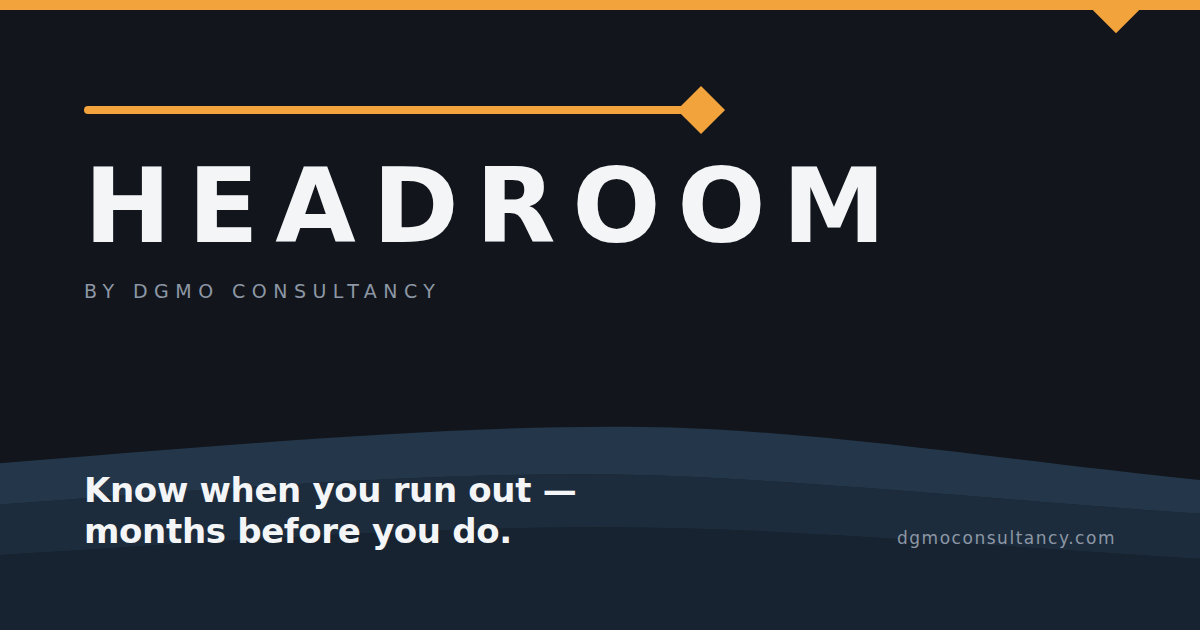
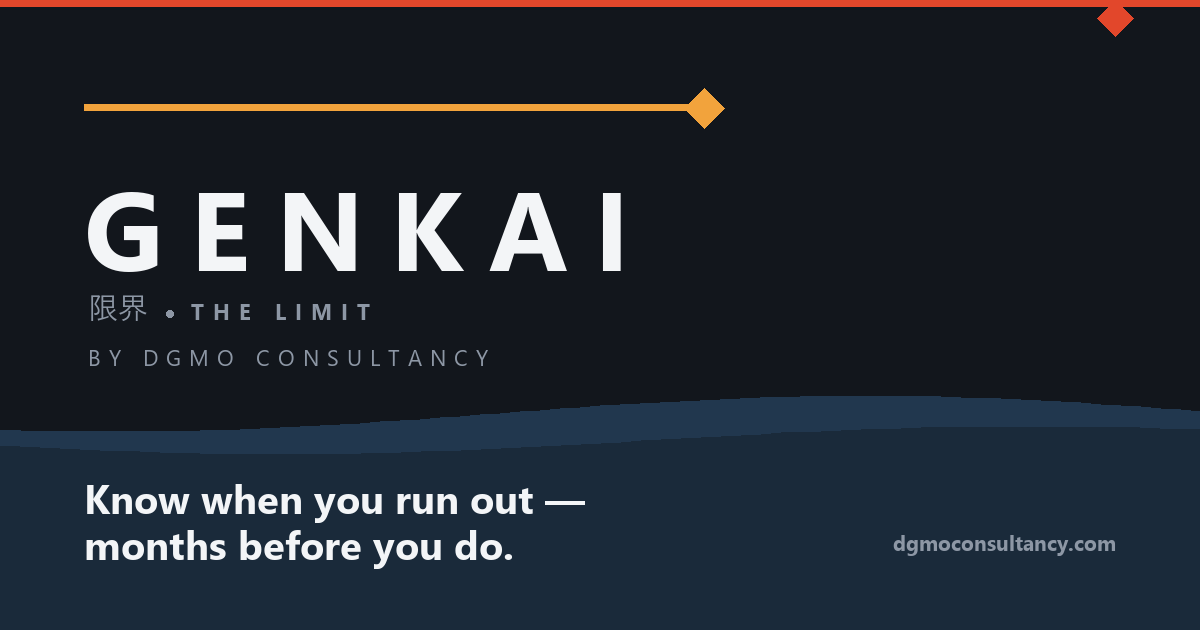
Re-cut the OG image for Genkai; keep the generator
assets/og.png read "HEADROOM". Regenerated at 1200x630 with the Genkai
lockup; scripts/make-og.py rebuilds it. Pages reference og.png?v=2 so
link previews refetch.

diff --git a/scripts/make-og.py b/scripts/make-og.py
@@ -1,0 +1,76 @@
+"""Regenerate assets/og.png (1200x630) for the Genkai brand.
+
+Run from the repo root:  python scripts/make-og.py
+Fonts are read from the Windows font folder; adjust FONT_DIR elsewhere.
+Colours match assets/styles.css. Shu vermilion is used only as the limit line.
+"""
+from PIL import Image, ImageDraw, ImageFont
+import os, sys
+
+W, H = 1200, 630
+BG, INK, MUTED, AMBER, SHU = "#12161C", "#F3F5F7", "#8D97A5", "#F2A33C", "#E2472B"
+B1, B2, B3 = "#24435F", "#33608A", "#4A82B4"
+FONT_DIR = os.environ.get("FONT_DIR", r"C:\Windows\Fonts")
+
+def font(name, size):
+    return ImageFont.truetype(os.path.join(FONT_DIR, name), size)
+
+img = Image.new("RGB", (W, H), BG)
+d = ImageDraw.Draw(img)
+
+# The ceiling: shu limit line with the diamond marker, as on every page.
+d.rectangle([0, 0, W, 6], fill=SHU)
+d.polygon([(1115, 0), (1133, 18), (1115, 36), (1097, 18)], fill=SHU)
+d.rectangle([0, 0, W, 6], fill=SHU)
+
+# Lower band: the demand curves, then the strapline over them.
+import math
+def wave(y0, amp, phase, n=60):
+    pts = []
+    for i in range(n + 1):
+        x = W * i / n
+        pts.append((x, y0 + amp * math.sin(x / W * math.pi * 1.6 + phase)))
+    return pts
+top1 = wave(440, 14, 0.4); top2 = wave(414, 18, 1.1)
+d.polygon(top1 + [(W, H), (0, H)], fill=B1)
+d.polygon(top2 + list(reversed(top1)), fill=B2)
+# tone the band down so text stays legible
+overlay = Image.new("RGBA", (W, H), (0, 0, 0, 0))
+ImageDraw.Draw(overlay).rectangle([0, 380, W, H], fill=(18, 22, 28, 140))
+img = Image.alpha_composite(img.convert("RGBA"), overlay).convert("RGB")
+d = ImageDraw.Draw(img)
+
+# Amber lockup line with diamond.
+d.rectangle([84, 104, 690, 110], fill=AMBER)
+d.polygon([(704, 88), (724, 108), (704, 128), (684, 108)], fill=AMBER)
+
+def spaced(x, y, text, f, fill, tracking):
+    for ch in text:
+        d.text((x, y), ch, font=f, fill=fill)
+        x += d.textlength(ch, font=f) + tracking
+    return x
+
+# Wordmark
+spaced(84, 150, "GENKAI", font("segoeuib.ttf", 112), INK, 26)
+# 限界 · THE LIMIT
+jp = font("YuGothM.ttc", 30)
+x = 88
+d.text((x, 292), "限界", font=jp, fill=MUTED)
+x += d.textlength("限界", font=jp) + 18
+d.ellipse([x, 310, x + 7, 317], fill=MUTED)
+x += 25
+spaced(x, 296, "THE LIMIT", font("segoeuib.ttf", 22), MUTED, 9)
+# By line
+spaced(88, 342, "BY DGMO CONSULTANCY", font("segoeui.ttf", 22), MUTED, 8)
+
+# Strapline
+big = font("segoeuib.ttf", 40)
+d.text((84, 470), "Know when you run out —", font=big, fill=INK)
+d.text((84, 516), "months before you do.", font=big, fill=INK)
+small = font("segoeuib.ttf", 21)
+t = "dgmoconsultancy.com"
+d.text((W - 84 - d.textlength(t, font=small), 528), t, font=small, fill=MUTED)
+
+out = sys.argv[1] if len(sys.argv) > 1 else "assets/og.png"
+img.save(out, optimize=True)
+print("wrote", out, os.path.getsize(out), "bytes")
